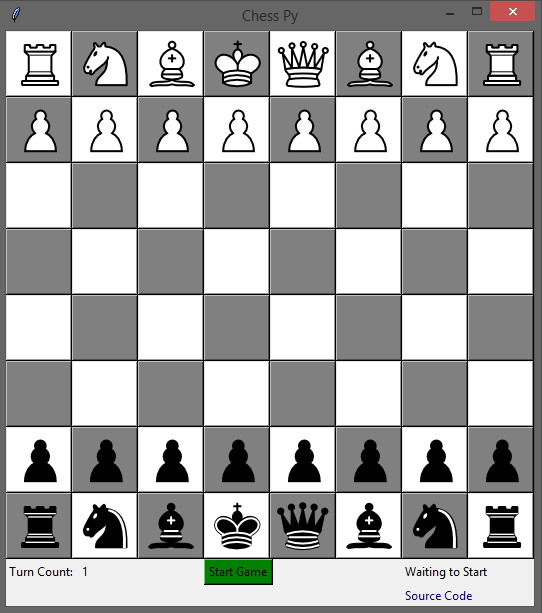
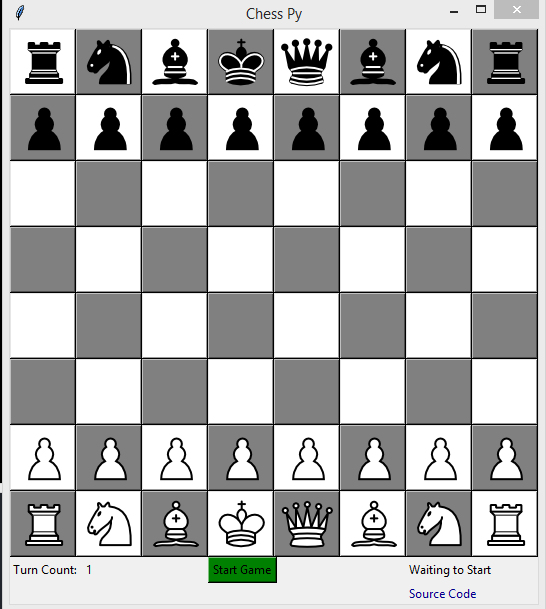
Normally the whites are at the bottom on the board... was mistaken on that till now

Changed region(s): [[0.0, 0.0, 1.0, 1.0]]

diff --git a/chess.py b/chess.py
@@ -88,21 +88,21 @@ class Chess(Frame):
 			for j in range(1, 9):
 				self.tiles[i, j].clear()
 		for i in range(1, 9):
-			self.tiles[2, i].placePiece("white", "wpawnprime", deprime=False)
-			self.tiles[7, i].placePiece("black", "bpawnprime", deprime=False)
+			self.tiles[2, i].placePiece("black", "bpawnprime", deprime=False)
+			self.tiles[7, i].placePiece("white", "wpawnprime", deprime=False)
 		for i in [1, 8]:
-			self.tiles[1, i].placePiece("white", "rook")
-			self.tiles[8, i].placePiece("black", "rook")
+			self.tiles[1, i].placePiece("black", "rook")
+			self.tiles[8, i].placePiece("white", "rook")
 		for i in [2, 7]:
-			self.tiles[1, i].placePiece("white", "knight")
-			self.tiles[8, i].placePiece("black", "knight")
+			self.tiles[1, i].placePiece("black", "knight")
+			self.tiles[8, i].placePiece("white", "knight")
 		for i in [3, 6]:
-			self.tiles[1, i].placePiece("white", "bishop")
-			self.tiles[8, i].placePiece("black", "bishop")
-		self.tiles[1, 4].placePiece("white", "king")
-		self.tiles[1, 5].placePiece("white", "queen")
-		self.tiles[8, 4].placePiece("black", "king")
-		self.tiles[8, 5].placePiece("black", "queen")
+			self.tiles[1, i].placePiece("black", "bishop")
+			self.tiles[8, i].placePiece("white", "bishop")
+		self.tiles[1, 4].placePiece("black", "king")
+		self.tiles[1, 5].placePiece("black", "queen")
+		self.tiles[8, 4].placePiece("white", "king")
+		self.tiles[8, 5].placePiece("white", "queen")
 
 	def initGame(self):
 		self.actionbutton['text'] = "Reset Game"
@@ -219,7 +219,7 @@ class Chess(Frame):
 			return targets
 		
 		if "pawn" in p.piecekind:
-			if "wp" in p.piecekind: #white pawn
+			if "bp" in p.piecekind: #black pawn
 				s = self.good(r+1, c)
 				if s > 1:
 					targets.append((r+1, c))
